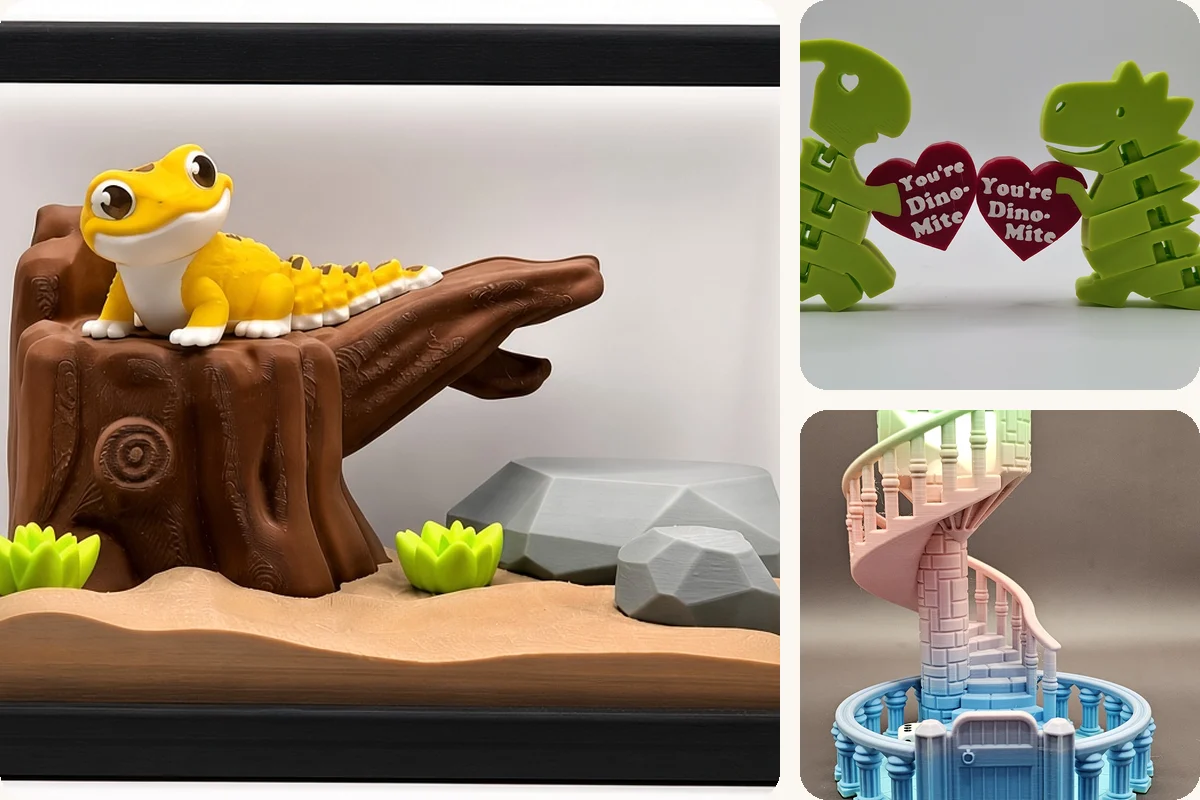
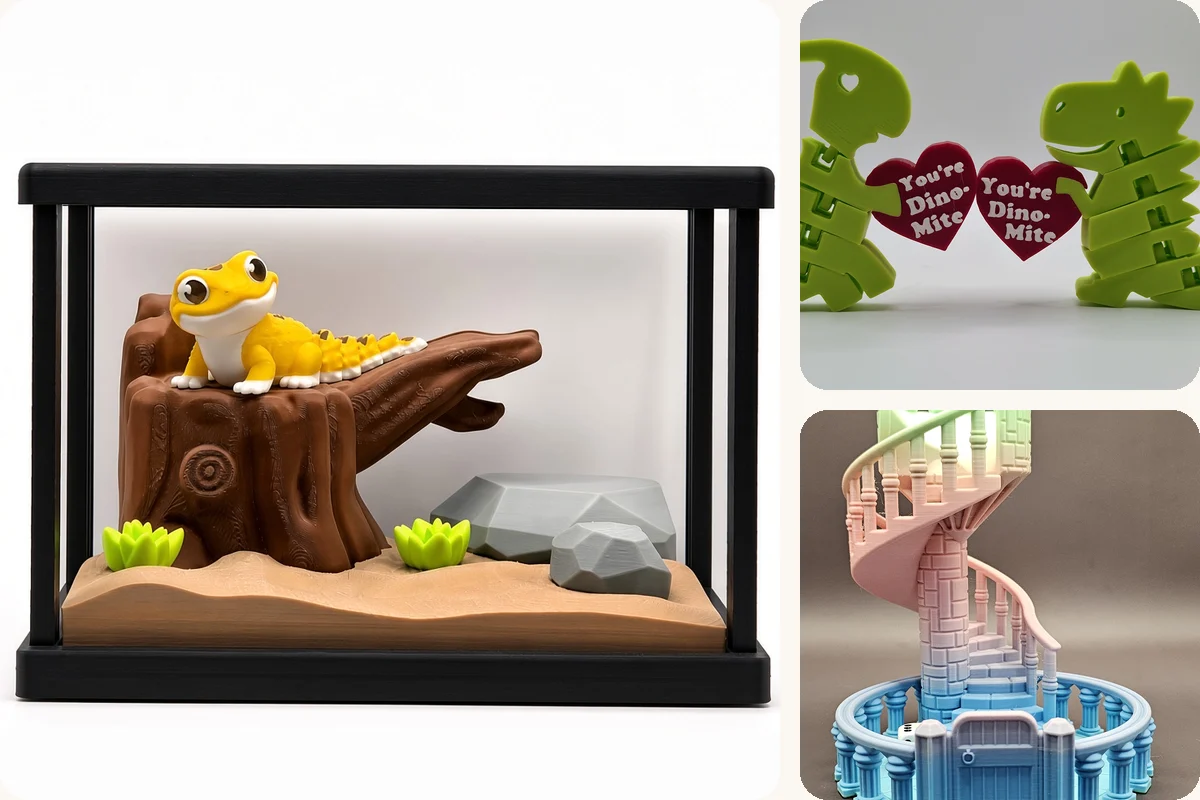
Hero: show full gecko case
Claude-Session: https://claude.ai/code/session_017gmUfsb6cj3x3dFJo87pgo

diff --git a/index.html b/index.html
@@ -18,7 +18,7 @@
   <link rel="preconnect" href="https://fonts.googleapis.com">
   <link rel="preconnect" href="https://fonts.gstatic.com" crossorigin>
   <link href="https://fonts.googleapis.com/css2?family=Fraunces:wght@700&family=Nunito:wght@500;700;800;900&display=swap" rel="stylesheet">
-  <link rel="stylesheet" href="assets/style.css?v=202609161200">
+  <link rel="stylesheet" href="assets/style.css?v=202609161300">
   <script type="application/ld+json">
   {
     "@context": "https://schema.org",
@@ -170,6 +170,6 @@
     <div><a href="quote.html">Start an order</a> · <a href="about.html">About</a> · <a href="https://maps.google.com/?cid=6083793129453651787" rel="noopener" target="_blank">Google</a></div>
   </div>
 </footer>
-<script src="assets/main.js?v=202609161200" defer></script>
+<script src="assets/main.js?v=202609161300" defer></script>
 </body>
 </html>
